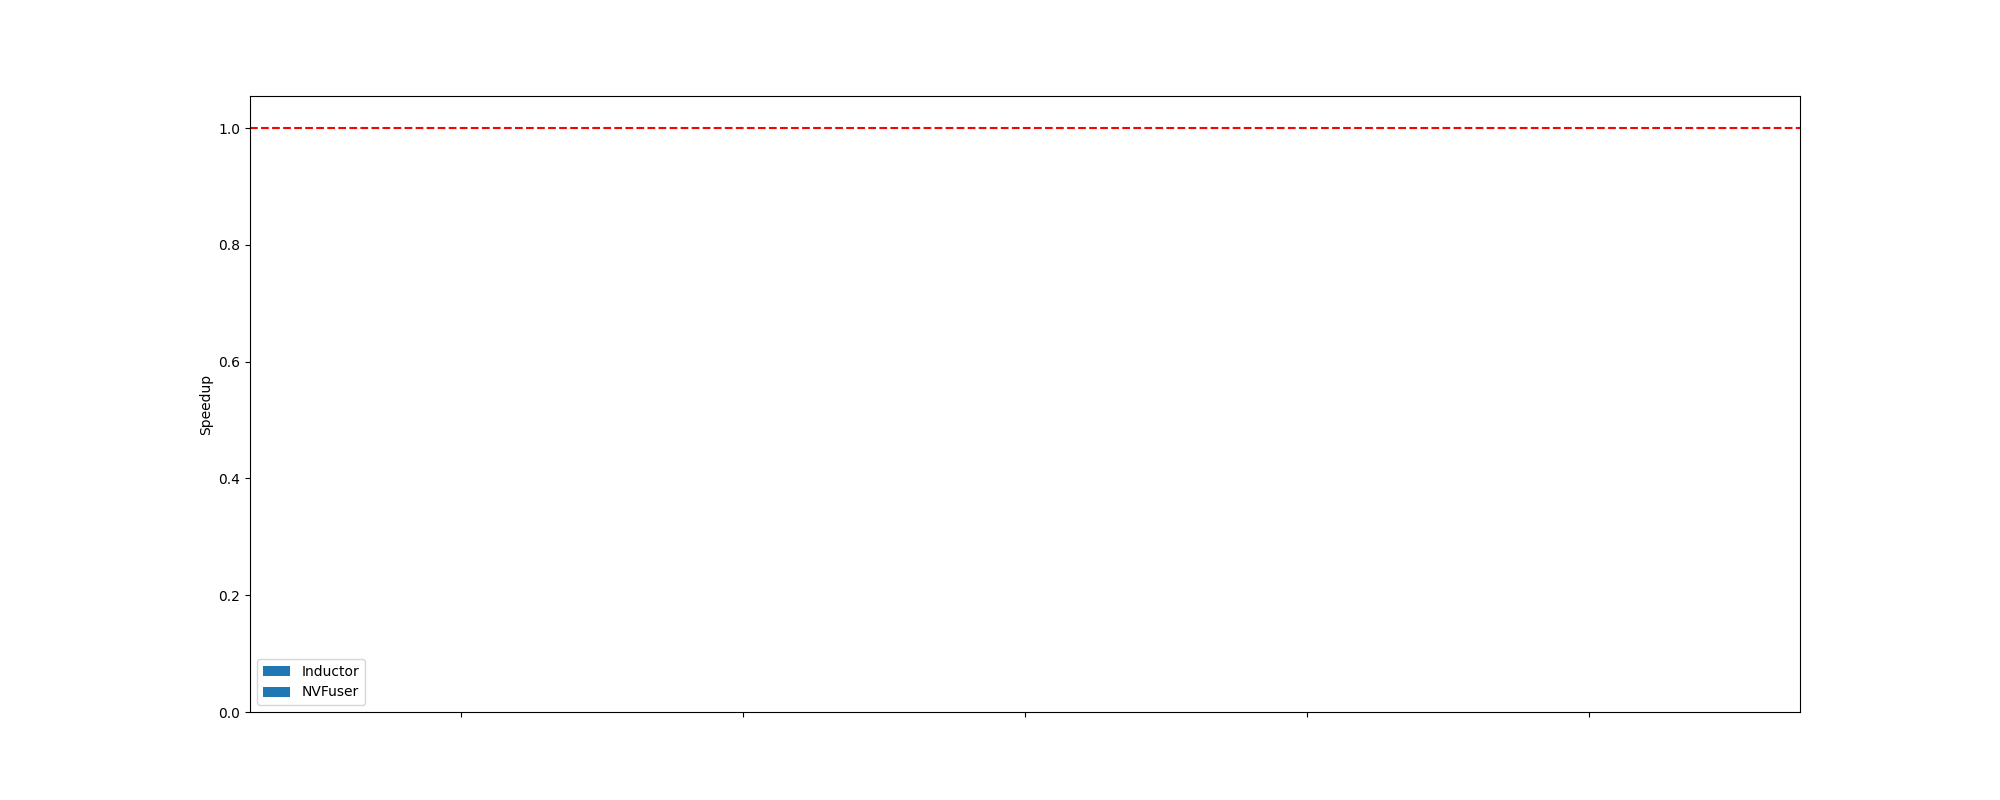
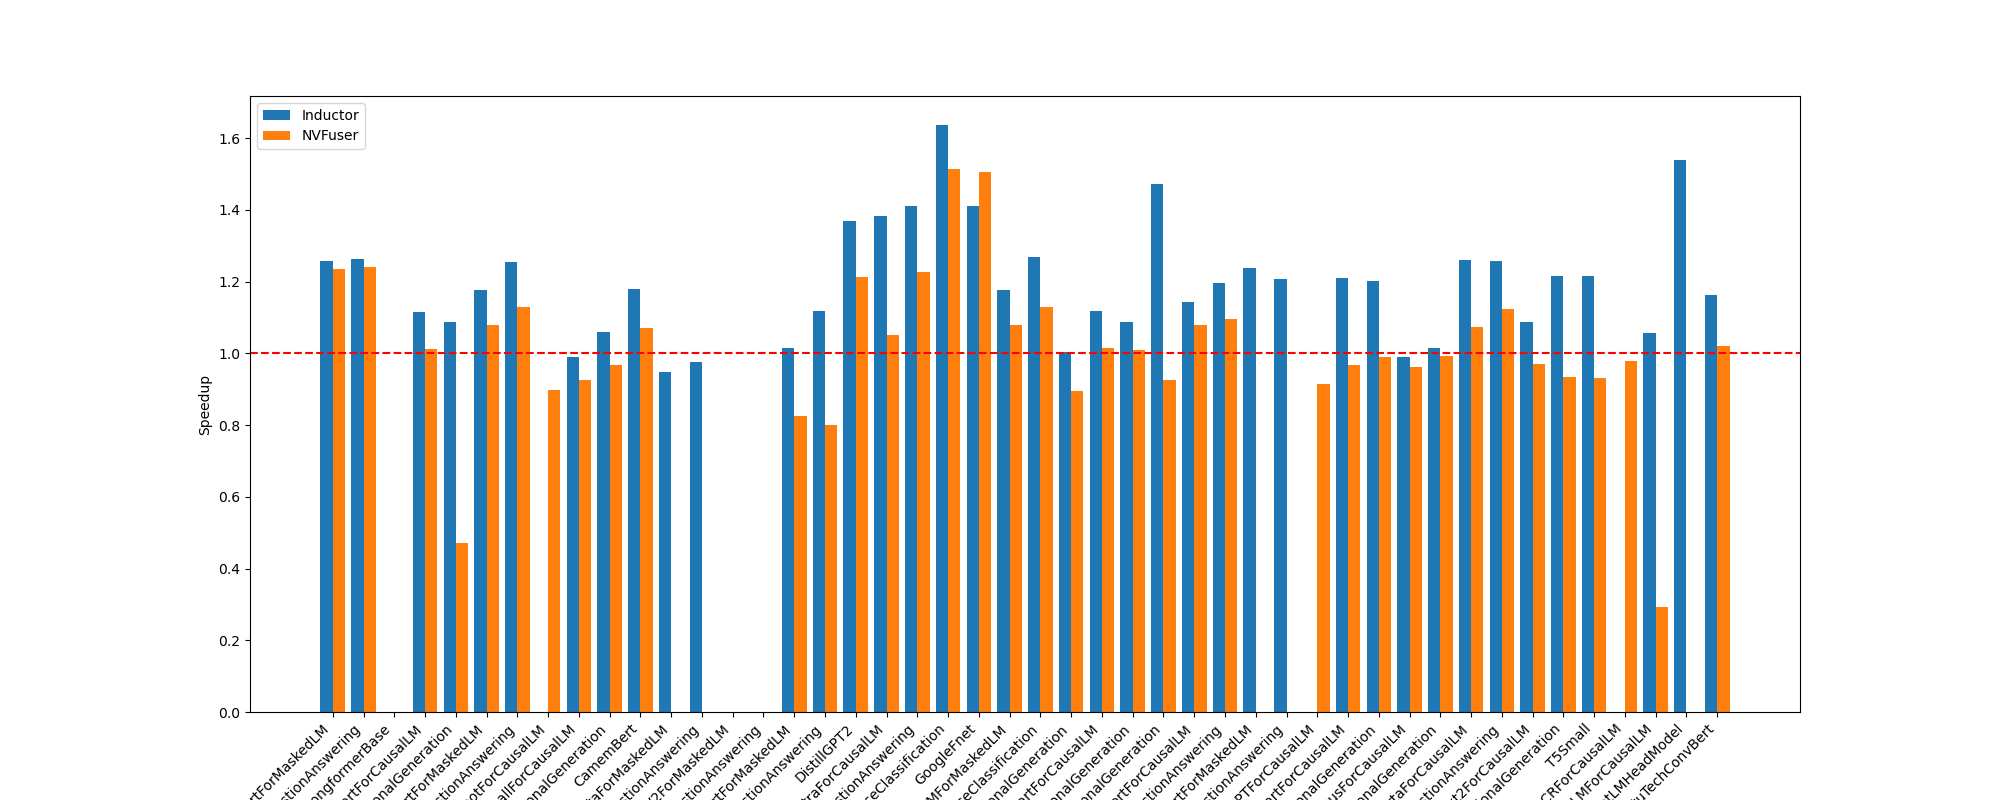
train

diff --git a/data/graph.py b/data/graph.py
@@ -8,7 +8,6 @@ def parse_log(file_name, slug):
             if line.startswith(slug):
                 out.append(line)
     out = [[item.split()[0], item.split()[1], item.split()[2], item.split()[3]] for item in out]
-    breakpoint()
     return out
 
 def describe_delta(data1, data2, name1, name2):
@@ -74,21 +73,22 @@ def graph_delta(data1, data2, name1, name2, title):
 
 # Inductor, eval
 # hf_inductor_eval = parse_log("data/hf_inductor_eval.log", "cuda eval")
-timm_inductor_eval = parse_log("data/timm_inductor_eval.log", "cuda eval")
+# timm_inductor_eval = parse_log("data/timm_inductor_eval.log", "cuda eval")
 # tb_inductor_eval = parse_log("data/tb_inductor_eval.log")
 # NVFuser, eval
 # hf_nvfuser_eval = parse_log("data/hf_nvfuser_eval.log", "cuda eval")
-timm_nvfuser_eval = parse_log("data/timm_nvfuser_eval.log", "cuda eval")
+# timm_nvfuser_eval = parse_log("data/timm_nvfuser_eval.log", "cuda eval")
 # tb_nvfuser_eval = parse_log("data/tb_nvfuser_eval.log")
 # Inductor, train
-# hf_inductor_train = parse_log("data/hf_inductor_train.log", "cuda training")
-# timm_inductor_train = parse_log("data/timm_inductor_train.log")
+hf_inductor_train = parse_log("data/hf_inductor_train.log", "cuda train")
+timm_inductor_train = parse_log("data/timm_inductor_train.log", "cuda train")
 # tb_inductor_train = parse_log("data/tb_inductor_train.log")
 # NVFuser, train
-# hf_nvfuser_train = parse_log("data/hf_nvfuser_train.log", "cuda training")
-# timm_nvfuser_train = parse_log("data/timm_nvfuser_train.log")
+hf_nvfuser_train = parse_log("data/hf_nvfuser_train.log", "cuda train")
+timm_nvfuser_train = parse_log("data/timm_nvfuser_train.log", "cuda train")
 # tb_nvfuser_train = parse_log("data/tb_nvfuser_train.log")
 
 # graph_delta(hf_inductor_eval, hf_nvfuser_eval, "Inductor", "NVFuser", "hf_inductor_nvfuser_inference_gpu")
-graph_delta(timm_inductor_eval, timm_nvfuser_eval, "Inductor", "NVFuser", "timm_inductor_nvfuser_inference_gpu")
-# graph_delta(hf_inductor_train, hf_nvfuser_train, "Inductor", "NVFuser", "hf_inductor_nvfuser_train_gpu")
+# graph_delta(timm_inductor_eval, timm_nvfuser_eval, "Inductor", "NVFuser", "timm_inductor_nvfuser_inference_gpu")
+graph_delta(hf_inductor_train, hf_nvfuser_train, "Inductor", "NVFuser", "hf_inductor_nvfuser_train_gpu")
+graph_delta(timm_inductor_train, timm_nvfuser_train, "Inductor", "NVFuser", "timm_inductor_nvfuser_train_gpu")
